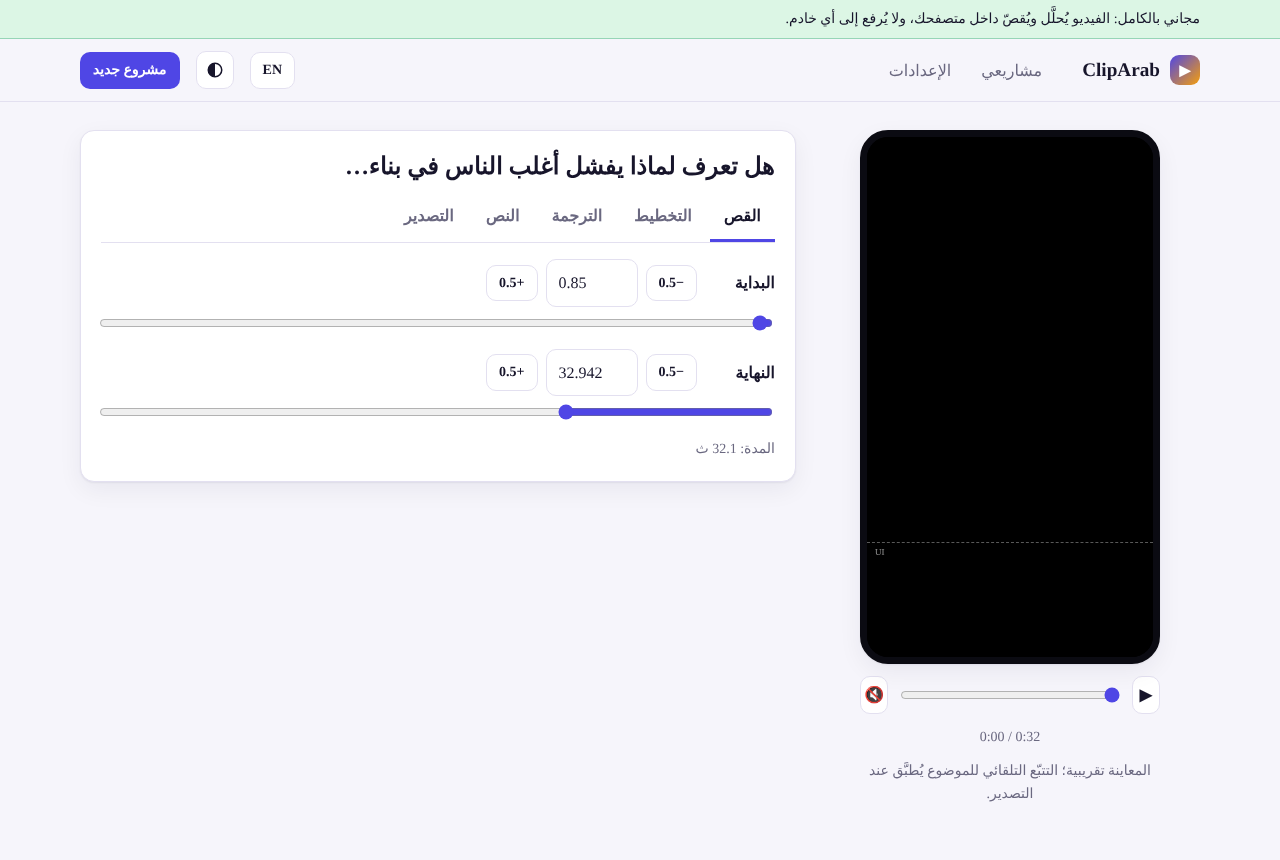
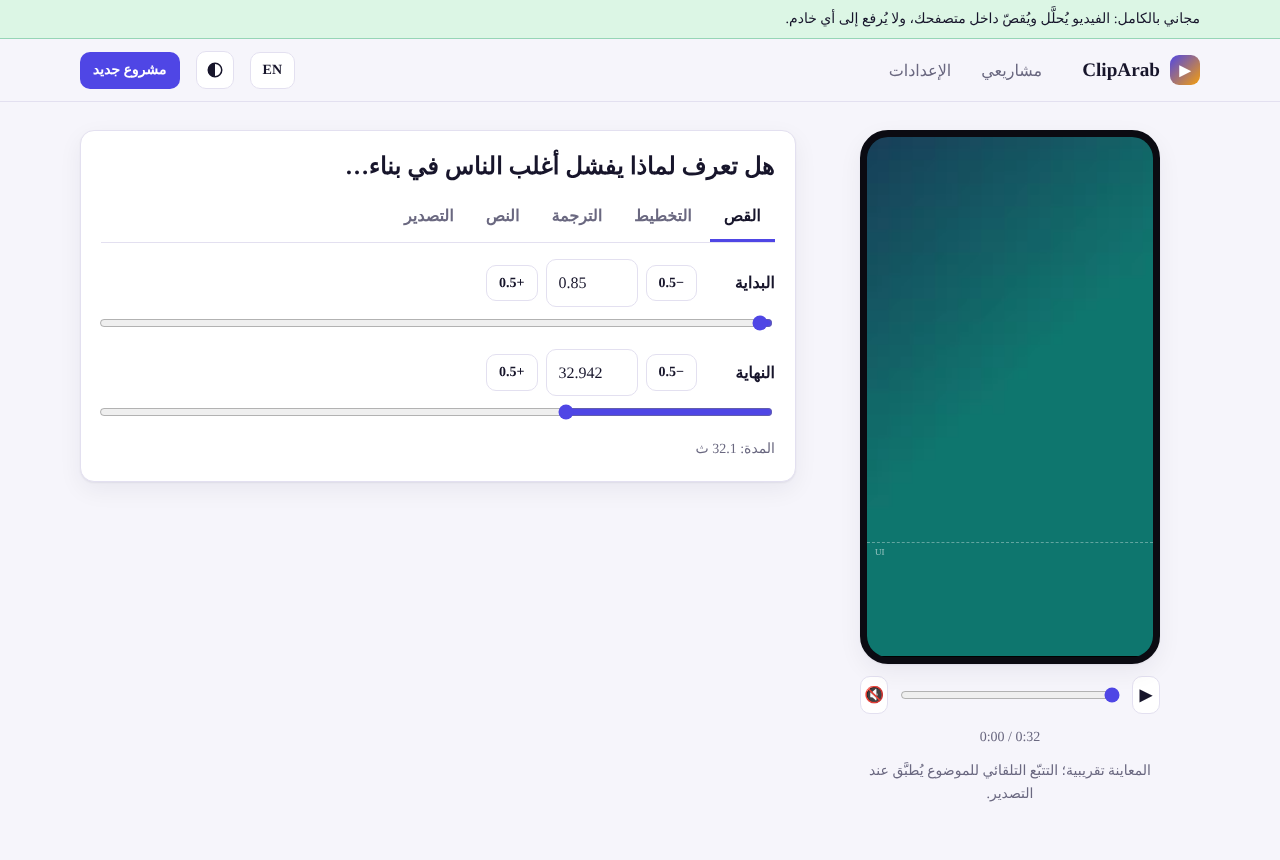
Export: adaptive speech levelling toward -18 dBFS with a limiter
Claude-Session: https://claude.ai/code/session_012WBhWfUbRwin1wPpV6Fz8Z

Changed region(s): [[0.6562, 0.1512, 0.9062, 0.786]]

diff --git a/apps/web/lib/local/render.ts b/apps/web/lib/local/render.ts
@@ -92,18 +92,23 @@ export async function renderClip(src: string, es: EditState, words: WordT[], onP
   await actx.resume().catch(() => undefined);
   const dest = actx.createMediaStreamDestination();
   const srcNode = actx.createMediaElementSource(v); // not connected to the speakers: export is silent for the user
+  // speech levelling (≈ the server's loudnorm): an automatic gain steers the level toward −18 dBFS RMS while the
+  // clip plays (quiet recordings are lifted, loud ones brought down), and a limiter keeps peaks from clipping
+  const mkAgc = (analyser: AnalyserNode, gain: GainNode) => ({ analyser, gain, buf: new Float32Array(analyser.fftSize) });
+  let agc: ReturnType<typeof mkAgc> | null = null;
   if (es.loudnorm !== false) {
-    // speech levelling: lift quiet recordings, keep loud ones from clipping (≈ the server's loudnorm)
-    const comp = actx.createDynamicsCompressor();
-    comp.threshold.value = -32; comp.knee.value = 12; comp.ratio.value = 5; comp.attack.value = 0.005; comp.release.value = 0.25;
-    const makeup = actx.createGain();
-    makeup.gain.value = 2.6;
+    const analyser = actx.createAnalyser();
+    analyser.fftSize = 2048;
+    const gain = actx.createGain();
     const limiter = actx.createDynamicsCompressor();
-    limiter.threshold.value = -2; limiter.knee.value = 0; limiter.ratio.value = 20; limiter.attack.value = 0.001; limiter.release.value = 0.1;
-    srcNode.connect(comp).connect(makeup).connect(limiter).connect(dest);
+    limiter.threshold.value = -3; limiter.knee.value = 0; limiter.ratio.value = 20; limiter.attack.value = 0.002; limiter.release.value = 0.12;
+    srcNode.connect(analyser);
+    srcNode.connect(gain).connect(limiter).connect(dest);
+    agc = mkAgc(analyser, gain);
   } else {
     srcNode.connect(dest);
   }
+  let level = 0;
 
   await seek(v, es.start);
   drawFrame(ctx, v, W, H, es);
@@ -118,6 +123,17 @@ export async function renderClip(src: string, es: EditState, words: WordT[], onP
   let raf = 0;
   const finish = () => { if (rec.state !== "inactive") rec.stop(); v.pause(); cancelAnimationFrame(raf); };
   const tick = () => {
+    if (agc) {
+      agc.analyser.getFloatTimeDomainData(agc.buf);
+      let s = 0;
+      for (let i = 0; i < agc.buf.length; i++) s += agc.buf[i] * agc.buf[i];
+      const rms = Math.sqrt(s / agc.buf.length);
+      if (rms > 0.004) { // ignore pauses so silence is not pumped up
+        level = level ? level * 0.92 + rms * 0.08 : rms;
+        const want = Math.min(8, Math.max(0.25, 0.126 / level)); // 0.126 ≈ −18 dBFS
+        agc.gain.gain.setTargetAtTime(want, actx.currentTime, 0.3);
+      }
+    }
     drawFrame(ctx, v, W, H, es);
     if (events.length) drawCaptions(ctx, W, H, es, events, v.currentTime, family);
     onProgress(Math.min(0.99, (v.currentTime - es.start) / dur));
